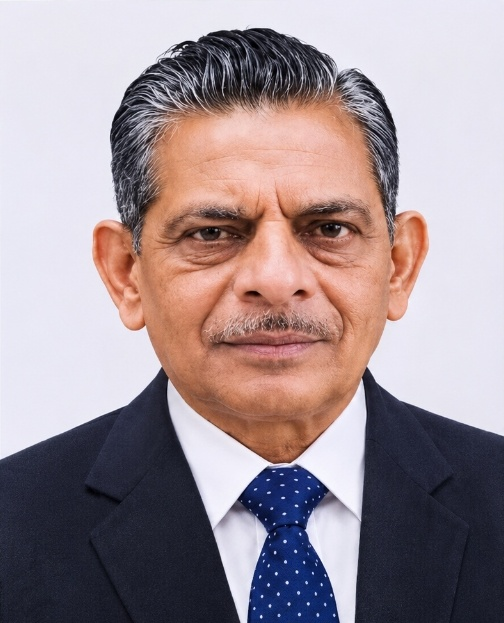
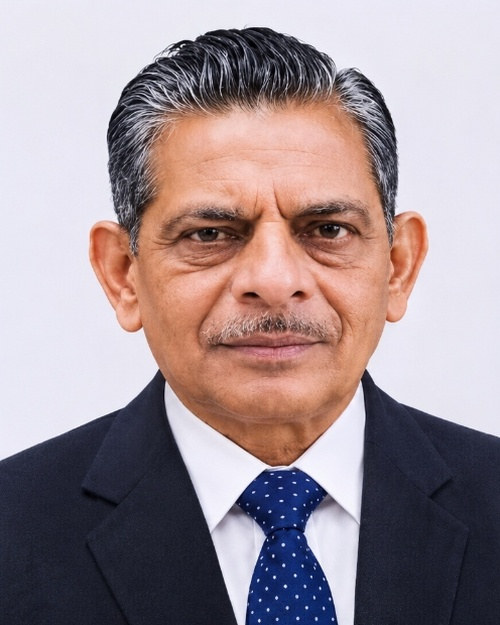
fix: update leader portraits to 4:5 v2 images with perfect aspect fit and zero artifacts

diff --git a/ubichem/src/components/pages/TeamContent.tsx b/ubichem/src/components/pages/TeamContent.tsx
@@ -44,13 +44,14 @@ export function TeamContent() {
                 className="bg-white rounded-3xl p-6 sm:p-8 shadow-[0_4px_24px_-2px_rgba(27,94,32,0.06)] border border-border-subtle hover:shadow-2xl transition-all duration-300 transform hover:-translate-y-1 flex flex-col items-center text-center group"
               >
                 {/* Photo Frame */}
-                <div className="relative w-full aspect-[3/4] max-w-[260px] rounded-2xl overflow-hidden bg-surface-container border-2 border-border-subtle group-hover:border-primary/40 shadow-md mb-6">
+                <div className="relative w-full aspect-[4/5] max-w-[270px] rounded-2xl overflow-hidden bg-surface-container border-2 border-border-subtle group-hover:border-primary/40 shadow-md mb-6">
                   <Image
                     src={leader.image}
                     alt={leader.name}
                     fill
-                    className="object-cover group-hover:scale-105 transition-transform duration-500"
-                    sizes="(max-width: 768px) 100vw, 33vw"
+                    className="object-cover object-top group-hover:scale-105 transition-transform duration-500"
+                    sizes="(max-width: 640px) 270px, (max-width: 1024px) 280px, 320px"
+                    priority
                   />
                 </div>
 

diff --git a/ubichem/src/content/team.ts b/ubichem/src/content/team.ts
@@ -10,21 +10,21 @@ export const leadershipMembers: TeamMember[] = [
   {
     name: "Mr. Manoharlal Sanghvi",
     role: "Founder",
-    image: "/images/team/manoharlal-sanghvi.jpg",
+    image: "/images/leaders/manoharlal-sanghvi-v2.jpg",
     company: "Sanghvi Quality Products Pvt. Ltd.",
     bio: "Pioneered the founding of Sanghvi Quality Products Pvt. Ltd. and Ubichem in 1988 at Barshi, laying the foundation for trustworthy, high-efficacy agricultural crop inputs and farmer prosperity.",
   },
   {
     name: "Mr. Naynesh Sanghvi",
     role: "Managing Director",
-    image: "/images/team/naynesh-sanghvi.jpg",
+    image: "/images/leaders/naynesh-sanghvi-v2.jpg",
     company: "Sanghvi Quality Products Pvt. Ltd.",
     bio: "Steering operational excellence, manufacturing scalability, advanced bio-formulation technology, and Pan-India market penetration across key agricultural states.",
   },
   {
     name: "Mr. Vinay Sanghvi",
     role: "Chairman",
-    image: "/images/team/vinay-sanghvi.jpg",
+    image: "/images/leaders/vinay-sanghvi-v2.jpg",
     company: "Sanghvi Quality Products Pvt. Ltd.",
     bio: "Providing strategic direction, ethical corporate governance, international expansion vision, and enduring commitment to sustainable agricultural research and quality standards.",
   },

diff --git a/ubichem/src/app/page.tsx b/ubichem/src/app/page.tsx
@@ -293,13 +293,14 @@ export default function Home() {
               className="bg-white rounded-3xl p-6 sm:p-8 shadow-[0_4px_24px_-2px_rgba(27,94,32,0.06)] border border-border-subtle hover:shadow-2xl transition-all duration-300 transform hover:-translate-y-1 group flex flex-col items-center text-center"
             >
               {/* Photo Frame */}
-              <div className="relative w-full aspect-[3/4] max-w-[260px] rounded-2xl overflow-hidden bg-surface-container border-2 border-border-subtle group-hover:border-primary/40 shadow-md mb-6">
+              <div className="relative w-full aspect-[4/5] max-w-[270px] rounded-2xl overflow-hidden bg-surface-container border-2 border-border-subtle group-hover:border-primary/40 shadow-md mb-6">
                 <Image
                   src={leader.image}
                   alt={leader.name}
                   fill
-                  className="object-cover group-hover:scale-105 transition-transform duration-500"
-                  sizes="(max-width: 768px) 100vw, 33vw"
+                  className="object-cover object-top group-hover:scale-105 transition-transform duration-500"
+                  sizes="(max-width: 640px) 270px, (max-width: 1024px) 280px, 320px"
+                  priority
                 />
               </div>
 

diff --git a/ubichem/src/i18n/translations/mr.ts b/ubichem/src/i18n/translations/mr.ts
@@ -142,19 +142,19 @@ export const mr: Translations = {
         name: "श्री मनोहरलाल संघवी",
         role: "संस्थापक (Founder)",
         company: "संघवी क्वालिटी प्रॉडक्ट्स प्रा. लि.",
-        image: "/images/team/manoharlal-sanghvi.jpg",
+        image: "/images/leaders/manoharlal-sanghvi-v2.jpg",
       },
       {
         name: "श्री नयनेश संघवी",
         role: "व्यवस्थापकीय संचालक (Managing Director)",
         company: "संघवी क्वालिटी प्रॉडक्ट्स प्रा. लि.",
-        image: "/images/team/naynesh-sanghvi.jpg",
+        image: "/images/leaders/naynesh-sanghvi-v2.jpg",
       },
       {
         name: "श्री विनय संघवी",
         role: "अध्यक्ष (Chairman)",
         company: "संघवी क्वालिटी प्रॉडक्ट्स प्रा. लि.",
-        image: "/images/team/vinay-sanghvi.jpg",
+        image: "/images/leaders/vinay-sanghvi-v2.jpg",
       },
     ],
     chairmanName: "श्री विनय संघवी",

diff --git a/ubichem/src/i18n/translations/hi.ts b/ubichem/src/i18n/translations/hi.ts
@@ -142,19 +142,19 @@ export const hi: Translations = {
         name: "श्री मनोहरलाल संघवी",
         role: "संस्थापक (Founder)",
         company: "संघवी क्वालिटी प्रोडक्ट्स प्रा. लि.",
-        image: "/images/team/manoharlal-sanghvi.jpg",
+        image: "/images/leaders/manoharlal-sanghvi-v2.jpg",
       },
       {
         name: "श्री नयनेश संघवी",
         role: "प्रबंध निदेशक (Managing Director)",
         company: "संघवी क्वालिटी प्रोडक्ट्स प्रा. लि.",
-        image: "/images/team/naynesh-sanghvi.jpg",
+        image: "/images/leaders/naynesh-sanghvi-v2.jpg",
       },
       {
         name: "श्री विनय संघवी",
         role: "चेयरमैन (Chairman)",
         company: "संघवी क्वालिटी प्रोडक्ट्स प्रा. लि.",
-        image: "/images/team/vinay-sanghvi.jpg",
+        image: "/images/leaders/vinay-sanghvi-v2.jpg",
       },
     ],
     chairmanName: "श्री विनय संघवी",

diff --git a/ubichem/src/i18n/translations/en.ts b/ubichem/src/i18n/translations/en.ts
@@ -142,19 +142,19 @@ export const en: Translations = {
         name: "Mr. Manoharlal Sanghvi",
         role: "Founder",
         company: "Sanghvi Quality Products Pvt. Ltd.",
-        image: "/images/team/manoharlal-sanghvi.jpg",
+        image: "/images/leaders/manoharlal-sanghvi-v2.jpg",
       },
       {
         name: "Mr. Naynesh Sanghvi",
         role: "Managing Director",
         company: "Sanghvi Quality Products Pvt. Ltd.",
-        image: "/images/team/naynesh-sanghvi.jpg",
+        image: "/images/leaders/naynesh-sanghvi-v2.jpg",
       },
       {
         name: "Mr. Vinay Sanghvi",
         role: "Chairman",
         company: "Sanghvi Quality Products Pvt. Ltd.",
-        image: "/images/team/vinay-sanghvi.jpg",
+        image: "/images/leaders/vinay-sanghvi-v2.jpg",
       },
     ],
     chairmanName: "Mr. Vinay Sanghvi",
